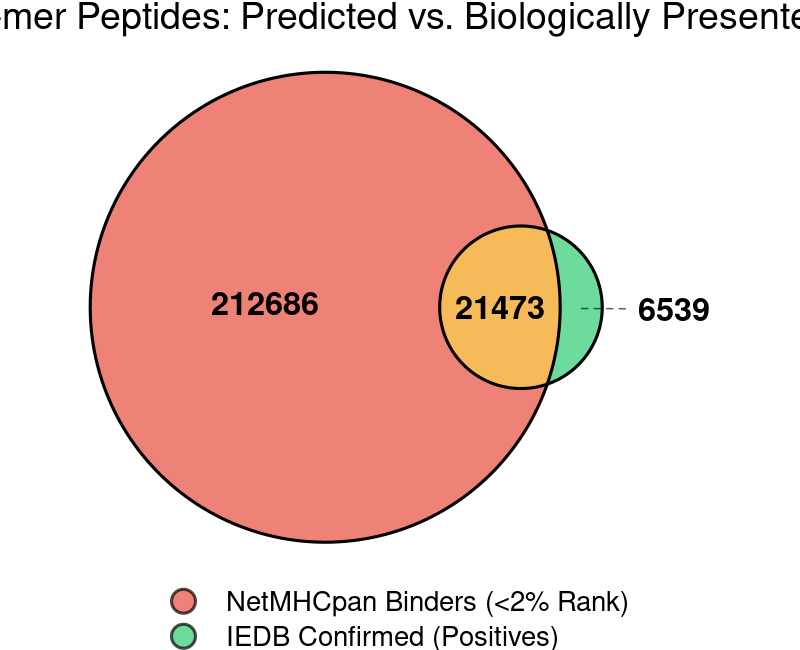
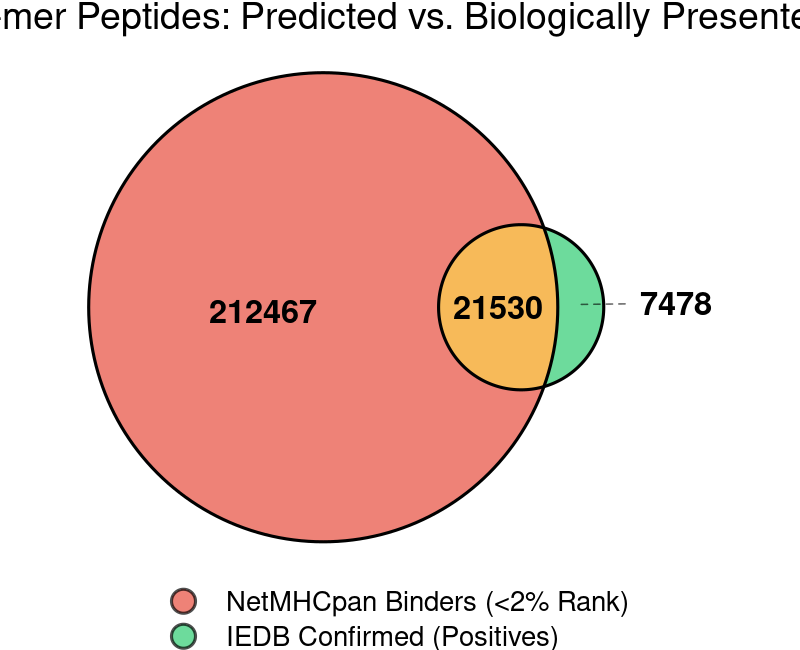
fix: use 'sequence_length_cutoff' stage name to match sankey_counts.csv

diff --git a/results/sankey/sankey_positives.html b/results/sankey/sankey_positives.html
@@ -1598,9 +1598,9 @@ this._y1=this._y2,this._y2=n}};var _w=function t(n){function e(t){return new qc(
 </head>
 <body style="background-color: white;">
 <div id="htmlwidget_container">
-  <div class="sankeyNetwork html-widget html-fill-item" id="htmlwidget-6b289d6f602b353311f7" style="width:960px;height:500px;"></div>
+  <div class="sankeyNetwork html-widget html-fill-item" id="htmlwidget-7b592b86b3cbfa0e7e18" style="width:960px;height:500px;"></div>
 </div>
-<script type="application/json" data-for="htmlwidget-6b289d6f602b353311f7">{"x":{"links":{"source":[0,0,2,2,4,4,6,6,6,6,6,6,12,12],"target":[1,2,3,4,5,6,7,8,9,10,11,12,13,14],"value":[123531,76850,15138,61712,28424,33288,2551,136,19,363,2207,28012,6539,21473],"group":["discard","keep","discard","keep","discard","keep","discard","discard","discard","discard","discard","keep","discard","keep"]},"nodes":{"name":["Raw Assays: 200,381","123,531","Unique Peptides: 76,850","PTMs: 15,138","61,712","Non-9-mers: 28,424","33,288","No UniProt ID: 2,551","No FASTA: 136","Selenocysteine: 19","Too long (>5000 aa): 363","Missing AlphaFold: 2,207","Verified 9-mers: 28,012","Not predicted (FN): 6,539","Predicted (TP): 21,473"],"group":["raw","discard","keep","discard","keep","discard","keep","discard","discard","discard","discard","discard","keep","discard","keep"]},"options":{"NodeID":"name","NodeGroup":"group","LinkGroup":"group","colourScale":"d3.scaleOrdinal()\n  .domain([\"keep\", \"discard\", \"raw\"])\n  .range([\"#2ecc71\", \"#e0e0e0\", \"#cccccc\"]);","fontSize":16,"fontFamily":"Arial","nodeWidth":20,"nodePadding":25,"units":"","margin":{"top":null,"right":null,"bottom":null,"left":null,"t":20,"r":20,"b":20,"l":20},"iterations":0,"sinksRight":false}},"evals":[],"jsHooks":[]}</script>
-<script type="application/htmlwidget-sizing" data-for="htmlwidget-6b289d6f602b353311f7">{"viewer":{"width":450,"height":350,"padding":10,"fill":true},"browser":{"width":960,"height":500,"padding":10,"fill":true}}</script>
+<script type="application/json" data-for="htmlwidget-7b592b86b3cbfa0e7e18">{"x":{"links":{"source":[0,0,2,2,4,4,6,6,6,6,6,6,12,12],"target":[1,2,3,4,5,6,7,8,9,10,11,12,13,14],"value":[123202,77179,15170,62009,28534,33475,2413,52,19,365,1618,29008,7478,21530],"group":["discard","keep","discard","keep","discard","keep","discard","discard","discard","discard","discard","keep","discard","keep"]},"nodes":{"name":["Raw Assays: 200,381","123,202","Unique Peptides: 77,179","PTMs: 15,170","62,009","Non-9-mers: 28,534","33,475","No UniProt ID: 2,413","No FASTA: 52","Selenocysteine: 19","Too long (>5000 aa): 365","Missing AlphaFold: 1,618","Verified 9-mers: 29,008","Not predicted (FN): 7,478","Predicted (TP): 21,530"],"group":["raw","discard","keep","discard","keep","discard","keep","discard","discard","discard","discard","discard","keep","discard","keep"]},"options":{"NodeID":"name","NodeGroup":"group","LinkGroup":"group","colourScale":"d3.scaleOrdinal()\n  .domain([\"keep\", \"discard\", \"raw\"])\n  .range([\"#2ecc71\", \"#e0e0e0\", \"#cccccc\"]);","fontSize":16,"fontFamily":"Arial","nodeWidth":20,"nodePadding":25,"units":"","margin":{"top":null,"right":null,"bottom":null,"left":null,"t":20,"r":20,"b":20,"l":20},"iterations":0,"sinksRight":false}},"evals":[],"jsHooks":[]}</script>
+<script type="application/htmlwidget-sizing" data-for="htmlwidget-7b592b86b3cbfa0e7e18">{"viewer":{"width":450,"height":350,"padding":10,"fill":true},"browser":{"width":960,"height":500,"padding":10,"fill":true}}</script>
 </body>
 </html>

diff --git a/results/sankey/sankey_negatives.html b/results/sankey/sankey_negatives.html
@@ -1598,9 +1598,9 @@ this._y1=this._y2,this._y2=n}};var _w=function t(n){function e(t){return new qc(
 </head>
 <body style="background-color: white;">
 <div id="htmlwidget_container">
-  <div class="sankeyNetwork html-widget html-fill-item" id="htmlwidget-547b5f85e008a032d24b" style="width:960px;height:500px;"></div>
+  <div class="sankeyNetwork html-widget html-fill-item" id="htmlwidget-69dda7233d2b1e115a96" style="width:960px;height:500px;"></div>
 </div>
-<script type="application/json" data-for="htmlwidget-547b5f85e008a032d24b">{"x":{"links":{"source":[0,0,2,2],"target":[1,2,3,4],"value":[21473,212686,188037,24649],"group":["discard","keep","discard","keep"]},"nodes":{"name":["Predicted Binders: 235,854","Overlap (IEDB): 21,473","Unconfirmed: 212,686","Affinity Bias: 188,037","Rank-Matched (TN): 24,649"],"group":["raw","discard","keep","discard","keep"]},"options":{"NodeID":"name","NodeGroup":"group","LinkGroup":"group","colourScale":"d3.scaleOrdinal()\n  .domain([\"keep\", \"discard\", \"raw\"])\n  .range([\"#e74c3c\", \"#e0e0e0\", \"#cccccc\"]);","fontSize":16,"fontFamily":"Arial","nodeWidth":20,"nodePadding":25,"units":"","margin":{"top":null,"right":null,"bottom":null,"left":null,"t":20,"r":20,"b":20,"l":20},"iterations":0,"sinksRight":false}},"evals":[],"jsHooks":[]}</script>
-<script type="application/htmlwidget-sizing" data-for="htmlwidget-547b5f85e008a032d24b">{"viewer":{"width":450,"height":350,"padding":10,"fill":true},"browser":{"width":960,"height":500,"padding":10,"fill":true}}</script>
+<script type="application/json" data-for="htmlwidget-69dda7233d2b1e115a96">{"x":{"links":{"source":[0,0,2,2],"target":[1,2,3,4],"value":[21518,212467,187846,24621],"group":["discard","keep","discard","keep"]},"nodes":{"name":["Predicted Binders: 235,431","Overlap (IEDB): 21,518","Unconfirmed: 212,467","Affinity Bias: 187,846","Rank-Matched (TN): 24,621"],"group":["raw","discard","keep","discard","keep"]},"options":{"NodeID":"name","NodeGroup":"group","LinkGroup":"group","colourScale":"d3.scaleOrdinal()\n  .domain([\"keep\", \"discard\", \"raw\"])\n  .range([\"#e74c3c\", \"#e0e0e0\", \"#cccccc\"]);","fontSize":16,"fontFamily":"Arial","nodeWidth":20,"nodePadding":25,"units":"","margin":{"top":null,"right":null,"bottom":null,"left":null,"t":20,"r":20,"b":20,"l":20},"iterations":0,"sinksRight":false}},"evals":[],"jsHooks":[]}</script>
+<script type="application/htmlwidget-sizing" data-for="htmlwidget-69dda7233d2b1e115a96">{"viewer":{"width":450,"height":350,"padding":10,"fill":true},"browser":{"width":960,"height":500,"padding":10,"fill":true}}</script>
 </body>
 </html>
